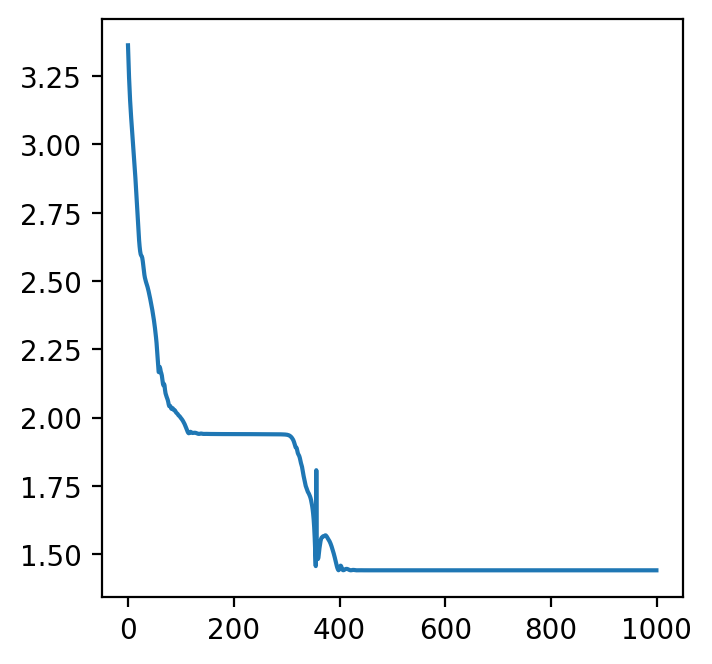
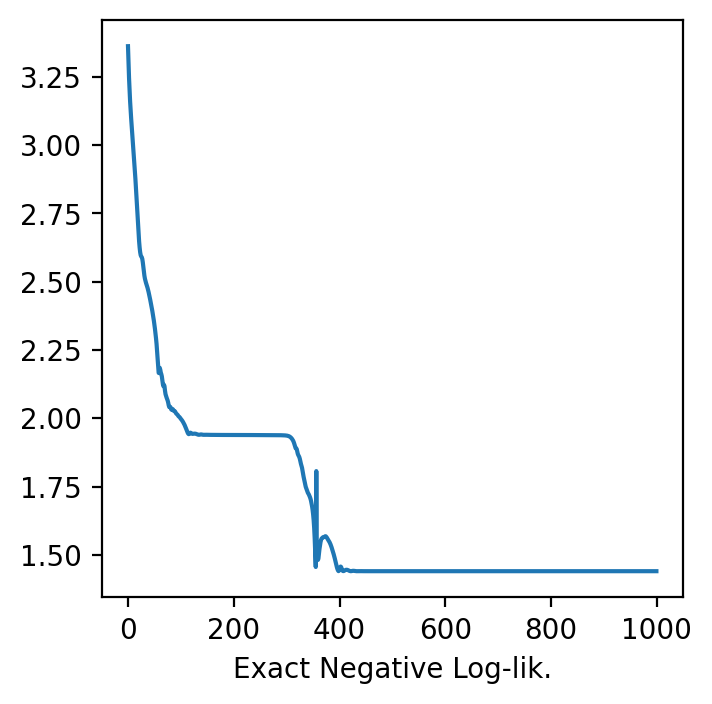
minor fix

diff --git a/examples/density_estimation.py b/examples/density_estimation.py
@@ -26,7 +26,7 @@ data_torch = torch.from_numpy(data)
 
 fig = plt.figure(figsize=(3.75, 3.75))
 plt.hist2d(data[:, 0], data[:, 1], bins=100, cmap="turbo", range=[[-3, 3], [-3, 3]])
-plt.savefig("density_estimation/true_empirical_density.png", dpi=200, bbox_inches='tight')
+plt.savefig("density_estimation_pngs/true_empirical_density.png", dpi=200, bbox_inches='tight')
 
 
 gmm = GMM(D=2, K=4, cov_style="full")
@@ -44,7 +44,9 @@ for i in range(1, 1000+1):
 
 fig = plt.figure(figsize=(3.75, 3.75))
 plt.plot(mean_neg_log_liks)
-plt.savefig("density_estimation/learning_curve.png", dpi=200, bbox_inches='tight')
+plt.xlabel("Number of Iterations")
+plt.xlabel("Exact Negative Log-lik.")
+plt.savefig("density_estimation_pngs/learning_curve.png", dpi=200, bbox_inches='tight')
 
 
 with torch.no_grad():
@@ -52,4 +54,4 @@ with torch.no_grad():
 
 fig = plt.figure(figsize=(3.75, 3.75))
 plt.hist2d(samples[:, 0], samples[:, 1], bins=100, cmap="turbo", range=[[-3, 3], [-3, 3]])
-plt.savefig("density_estimation/learned_empirical_density.png", dpi=200, bbox_inches='tight')
+plt.savefig("density_estimation_pngs/learned_empirical_density.png", dpi=200, bbox_inches='tight')
